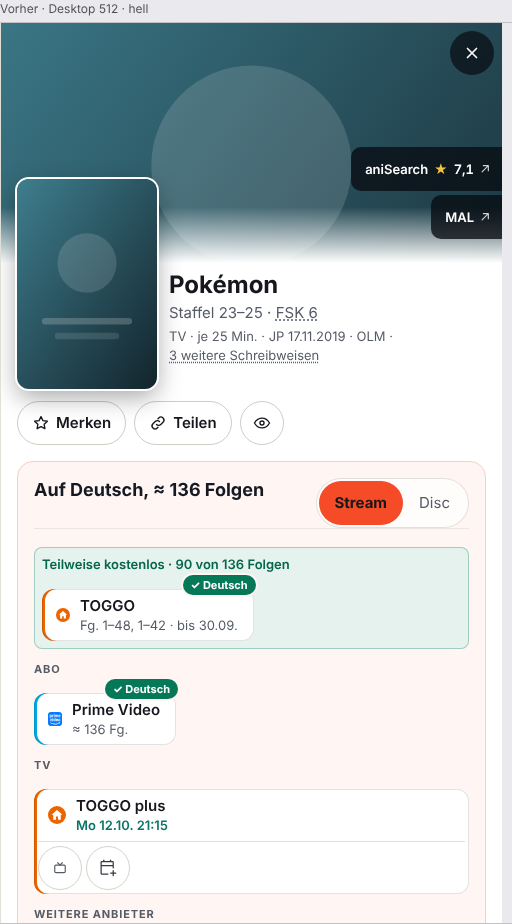
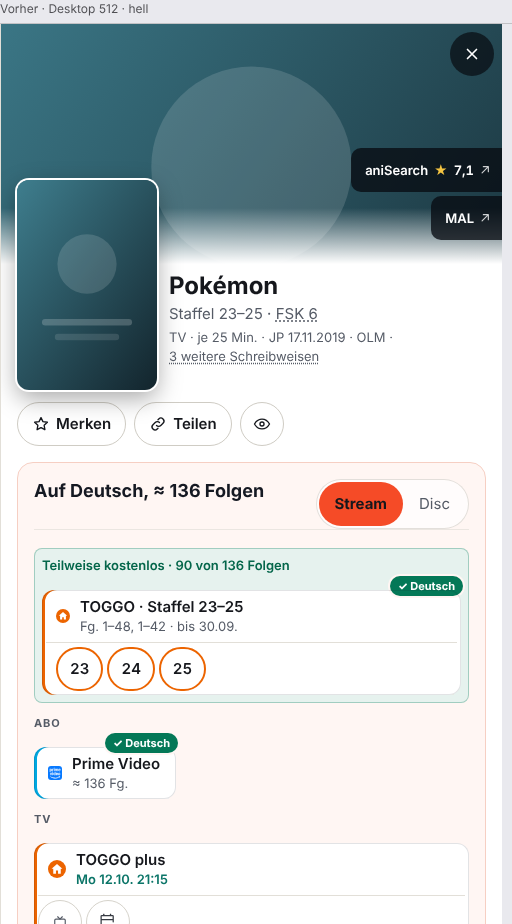
fix(panel): TOGGO-Staffelknöpfe nachgebessert – Innenabstand, Übersetzer ohne Cast, Test auf rel und Anbieterfarbe
Claude-Session: https://claude.ai/code/session_01Bx77zqb8a4JAkqo7qPTJPt

diff --git a/web/src/components/detail/staffel-knoepfe.tsx b/web/src/components/detail/staffel-knoepfe.tsx
@@ -1,8 +1,7 @@
 import { isValidElement, type ComponentProps, type ReactElement, type ReactNode } from 'react'
 import { staffelSpanne, type StaffelZiel } from '../../lib/staffel-ziele.ts'
 import { Pille } from './pille.tsx'
-
-type Translate = (k: string, v?: Record<string, string | number>) => string
+import { useLang, type Translate } from '../../lib/i18n.tsx'
 
 type PilleEigenschaften = ComponentProps<typeof Pille>
 
@@ -11,7 +10,8 @@ const KNOPF = 'inline-flex min-h-11 min-w-11 items-center justify-center rounded
 const staffelText = (t: Translate, n: string | number) => t('detail.staffelNummer', { n })
 
 /** Eine TOGGO-Fläche statt einer Pille: Überschrift „TOGGO · Staffel 1–5“, darin je Adresse ein Zahlenknopf (mindestens 44 px, Rahmen in der Anbieterfarbe). */
-export function PilleMitKnoepfen({ eig, ziele, t }: { eig: PilleEigenschaften; ziele: StaffelZiel[]; t: Translate }) {
+export function PilleMitKnoepfen({ eig, ziele }: { eig: PilleEigenschaften; ziele: StaffelZiel[] }) {
+  const { t } = useLang()
   const { von, bis } = staffelSpanne(ziele)
   const bereich = von === bis ? staffelText(t, von) : t('detail.staffelBereich', { von, bis })
   return (
@@ -20,7 +20,7 @@ export function PilleMitKnoepfen({ eig, ziele, t }: { eig: PilleEigenschaften; z
       name={`${String(eig.name)} · ${bereich}`}
       url={undefined}
       fuss={
-        <div role="group" aria-label={`${String(eig.name)}, ${bereich}`} className="flex flex-wrap gap-1">
+        <div role="group" aria-label={`${String(eig.name)}, ${bereich}`} className="flex flex-wrap gap-1 pl-2.5">
           {ziele.map((z) => (
             <a key={z.url} href={z.url} target="_blank" rel="noreferrer noopener" aria-label={`${String(eig.name)}, ${staffelText(t, z.nummer)}`} className={KNOPF} style={{ borderColor: eig.farbe }}>
               {z.nummer}
@@ -35,7 +35,7 @@ export function PilleMitKnoepfen({ eig, ziele, t }: { eig: PilleEigenschaften; z
 const istToggoWeg = (n: ReactNode): n is ReactElement<PilleEigenschaften> => isValidElement(n) && String(n.key).startsWith('sw-TOGGO-')
 
 /** Ersetzt die TOGGO-Pille der Wege durch die Knopffläche (mit demselben `key`: die Zugangsgruppe hängt daran); ohne Staffelseiten bleibt alles wie es ist. */
-export function mitStaffelKnoepfen(pillen: ReactNode[], ziele: StaffelZiel[] | undefined, t: Translate): ReactNode[] {
+export function mitStaffelKnoepfen(pillen: ReactNode[], ziele: StaffelZiel[] | undefined): ReactNode[] {
   if (!ziele) return pillen
-  return pillen.map((n) => (istToggoWeg(n) ? <PilleMitKnoepfen key={n.key} eig={n.props} ziele={ziele} t={t} /> : n))
+  return pillen.map((n) => (istToggoWeg(n) ? <PilleMitKnoepfen key={n.key} eig={n.props} ziele={ziele} /> : n))
 }

diff --git a/tools/buehne-toggo-pillen.test.ts b/tools/buehne-toggo-pillen.test.ts
@@ -37,11 +37,10 @@ assert.deepEqual(gemischt.map((z) => [z.nummer, z.url]), [['15–16', 'https://x
 assert.deepEqual(staffelSpanne(gemischt), { von: 15, bis: 16 })
 
 // Die Pille: nur die TOGGO-Pille wird zur Knopffläche (gleicher key), alles andere bleibt dieselbe Instanz.
-const t = ((k: string, v?: Record<string, string | number>) => (k === 'detail.staffelBereich' ? `Staffel ${v!.von}–${v!.bis}` : `Staffel ${v!.n}`)) as never
 const toggo = createElement(Pille, { key: 'sw-TOGGO-https://x', name: 'TOGGO', farbe: '#ff0066', url: 'https://www.toggo.de/pokemon' })
 const netflix = createElement(Pille, { key: 'sw-Netflix-https://n', name: 'Netflix', url: 'https://www.netflix.com/x' })
-assert.equal(mitStaffelKnoepfen([toggo, netflix], undefined, t)[0], toggo)
-const neu = mitStaffelKnoepfen([toggo, netflix], sammel, t)
+assert.equal(mitStaffelKnoepfen([toggo, netflix], undefined)[0], toggo)
+const neu = mitStaffelKnoepfen([toggo, netflix], sammel)
 assert.equal(neu[1], netflix)
 assert.equal((neu[0] as { key: string }).key, 'sw-TOGGO-https://x')
 const html = renderToStaticMarkup(createElement('div', null, neu))
@@ -50,7 +49,14 @@ assert.equal((html.match(/min-h-11/g) ?? []).length, 5)
 assert.match(html, /aria-label="TOGGO, Staffel 3"/)
 assert.match(html, /href="https:\/\/www\.toggo\.de\/pokemon\/serien\/pokemon-die-johto-reisen"[^>]*target="_blank"/)
 assert.doesNotMatch(html, /href="https:\/\/www\.toggo\.de\/pokemon"/)
-assert.match(renderToStaticMarkup(createElement('div', null, mitStaffelKnoepfen([toggo], gemischt, t))), /aria-label="TOGGO, Staffel 15–16"/)
+// Jeder der fünf Knöpfe: Fremdlink ohne Referrer/Opener, Rahmen in der Anbieterfarbe (der Pille).
+const knoepfe = html.match(/<a [^>]*min-h-11[^>]*>/g) ?? []
+assert.equal(knoepfe.length, 5)
+for (const k of knoepfe) {
+  assert.match(k, /rel="noreferrer noopener"/)
+  assert.match(k, /style="[^"]*border-color:\s*#ff0066/)
+}
+assert.match(renderToStaticMarkup(createElement('div', null, mitStaffelKnoepfen([toggo], gemischt))), /aria-label="TOGGO, Staffel 15–16"/)
 
 // Das Mockup ist angemeldet, eine Variante (A, entschieden F158), beide Fälle gibt es.
 await import('../web/buehne/mockups/toggo-pillen.tsx')

diff --git a/web/src/components/detail/antwort-kasten-zustand.tsx b/web/src/components/detail/antwort-kasten-zustand.tsx
@@ -43,7 +43,7 @@ export function useKastenZustand(p: Required<Pick<AntwortKastenProps, 'stream' |
   const beides = streamPillen.length > 0 && disc.length > 0
   /* Der Umschalter zeigt nur Seiten mit Pillen; eine einzelne bleibt als Etikett (Kaufpille = „Disc"). */
   const aktivDisc = beides ? zeigeDisc : streamPillen.length === 0
-  const pillen = aktivDisc ? disc : mitStaffelKnoepfen(streamPillen, staffelZiele, t as unknown as Uebersetzer)
+  const pillen = aktivDisc ? disc : mitStaffelKnoepfen(streamPillen, staffelZiele)
   const T = t as unknown as Uebersetzer
   /*
     **Kostenlos ist ein eigener Bereich** (Daniel, 19.09.2026: „trenn die bereiche, sodass es
